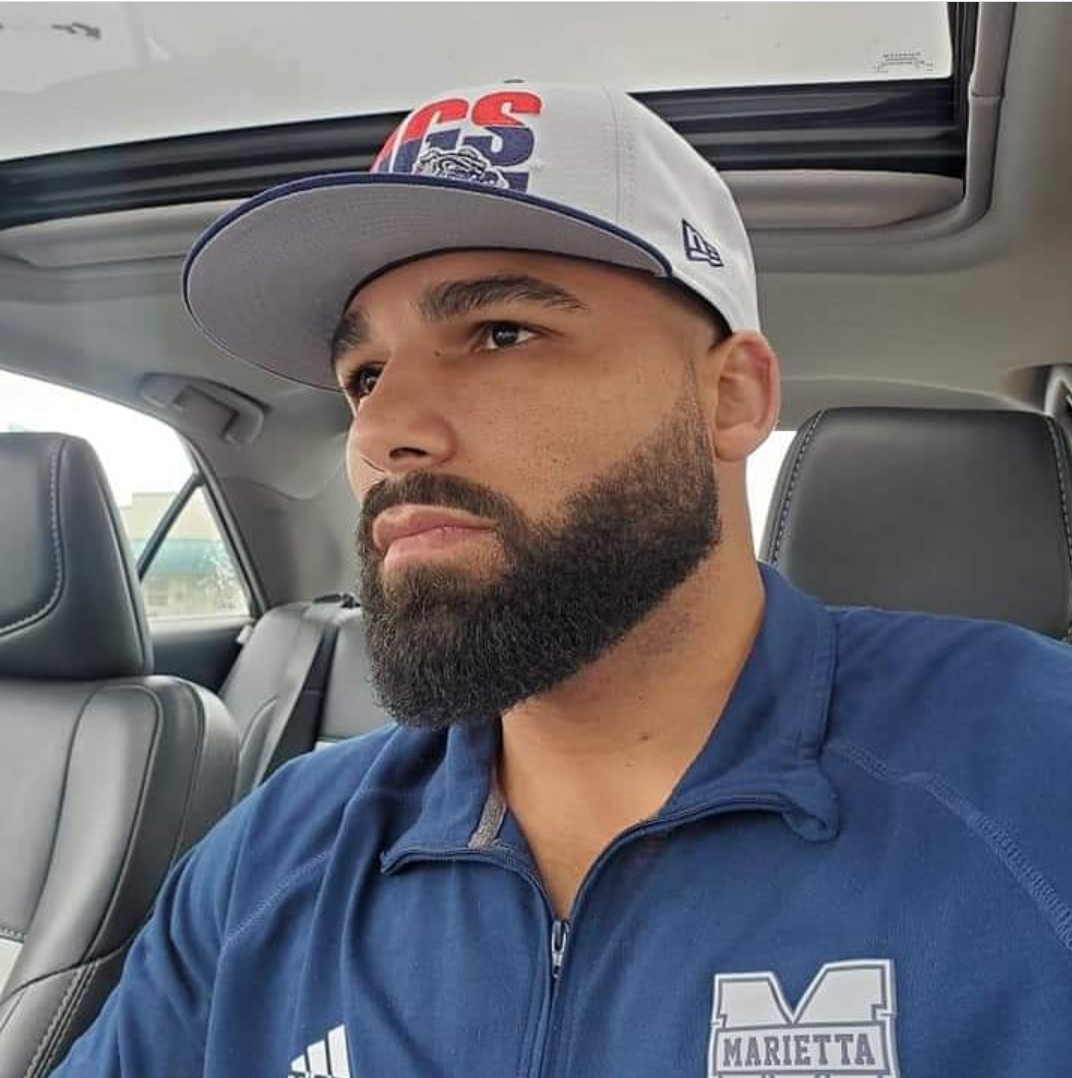
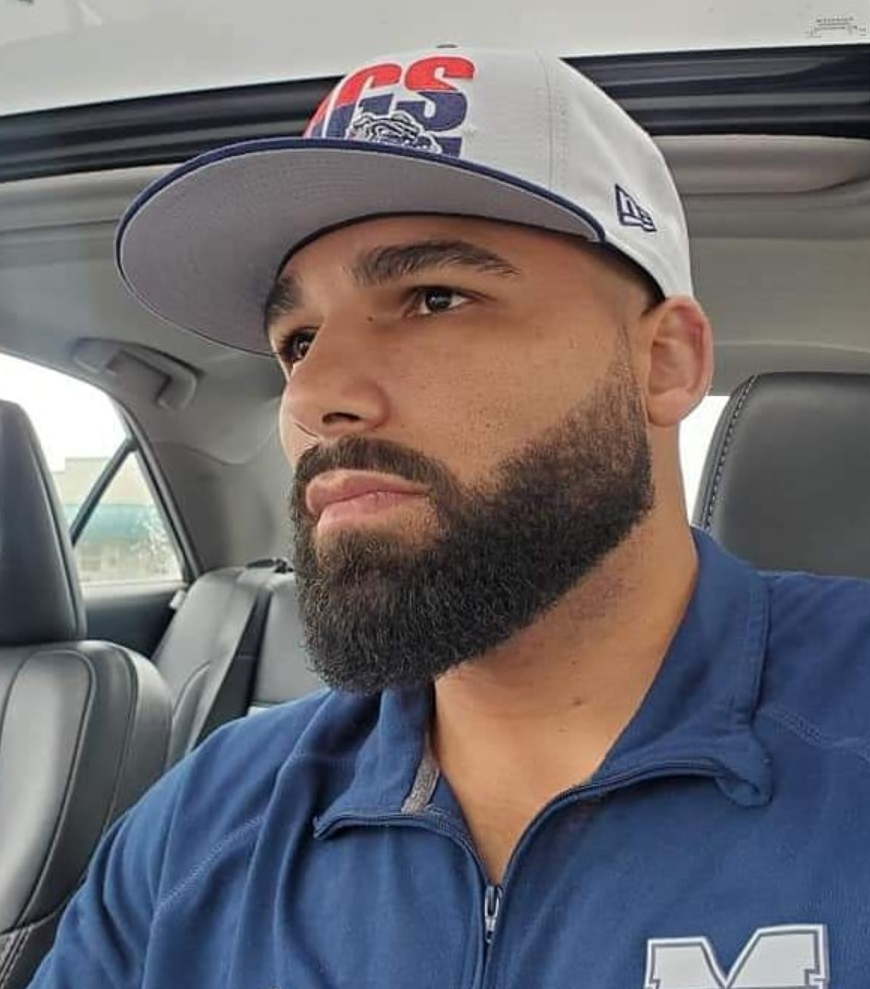
changes to pictures and sizing. copy and text

diff --git a/src/components/Barbers.jsx b/src/components/Barbers.jsx
@@ -1,32 +1,31 @@
-import cliff_profile from "../images/cliff_profile.png";
-import nate_profile from "../images/nate_profile.jpeg";
-import louie_profile from "../images/louie_profile.png";
-import nicks_profile from "../images/nicks_profile.png";
+import cliff_profile from "../images/cliff_profile_three.png";
+import nate_profile from "../images/nate_profile_two.png";
+import louie_profile from "../images/louie_profile_two.png";
+import nicks_profile from "../images/nicks_profile_two.png";
 import insta from "../images/insta.png";
 const Barbers = () => {
   return (
-    <section className="text-white bg-black body-font">
+    <section className="text-white bg-black body-font ">
       <div className="container px-5 py-24 mx-auto">
-        <div className="flex flex-col text-center w-full mb-20">
+        <div className="flex flex-col text-center w-full mb-20 text-base">
           <h1
             id="pricing"
             className="text-4xl font-medium title-font mb-4 text-white"
           >
-            OUR TEAM
+            MEET THE TEAM
           </h1>
-          <p className="lg:w-2/3 mx-auto leading-relaxed text-xl">
-            Our team is strong. We offer all the popular cuts you could want.
-            And we guarantee your happiness. You will 100% leave here looking
-            fresh no matter the barber you choose. Check out our line up.
+          <p className="lg:w-2/3 mx-auto leading-relaxed text-2xl">
+            At The Yard Barber's our team offer a full range of classic and
+            modern mens haircuts for all hair types.
           </p>
         </div>
         <div className="flex flex-wrap -m-4">
           {/* start barber 1 pricing */}
           <div className="p-4 lg:w-1/4 md:w-1/2">
-            <div className="h-full flex flex-col items-center text-center">
+            <div className="h-full flex flex-col items-center text-center ">
               <img
                 alt="team"
-                className="flex-shrink-0 rounded-lg w-full h-56 object-cover object-center mb-4"
+                className="flex-shrink-0 rounded-lg w-full h-56 object-cover object-center mb-4 border-2 border-red-600 "
                 src={cliff_profile}
               />
               <div className="w-full">
@@ -137,6 +136,7 @@ const Barbers = () => {
                   </p>
                   <p className="text-xs text-white mt-3">
                     **Full Service includes fade, beard and eyebrows.
+                    <br />
                   </p>
                   <p className="text-xs text-white mt-3">
                     **VIP includes fade, line-up, beard, lavender hot towel,
@@ -357,6 +357,20 @@ const Barbers = () => {
                     **Really great with kids.**
                   </p>
                   <p className="text-xs text-white mt-3">**Great cuts.**</p>
+
+                  {/* start of filler */}
+                  <p className="text-xs text-black mt-3">
+                    **Basic cut includes buzz cut, head shave, senior citizen,
+                    line-up w/beard.
+                  </p>
+                  <p className="text-xs text-black mt-3">
+                    **Full Service includes fade, beard and eyebrows.
+                    <br />
+                  </p>
+                  <p className="text-xs text-black mt-3">
+                    **VIP includes fade, line-up, beard,
+                  </p>
+                  {/* end of filler */}
                 </div>
               </div>
             </div>
@@ -477,6 +491,13 @@ const Barbers = () => {
                   <p className="text-xs text-white mt-3">
                     ** Beards additional $5
                   </p>
+                  {/* start of filler */}
+                  <p className="text-xs text-black mt-3">
+                    **Basic cut includes buzz cut, head shave, senior citizen,
+                    line-up w/beard.
+                  </p>
+
+                  {/* end of filler */}
                 </div>
               </div>
             </div>

diff --git a/src/components/Gallery.jsx b/src/components/Gallery.jsx
@@ -1,7 +1,9 @@
-import cliff_profile from "../images/cliff_profile.jpeg";
+import cliff_profile from "../images/cliff_profile_two.png";
 import cliff_1 from "../images/cliff_1.jpg";
+
 import cliff_2 from "../images/cliff_2.jpg";
 import cliff_3 from "../images/cliff_3.png";
+
 import cliff_4 from "../images/cliff_4.jpg";
 import cliff_6 from "../images/cliff_6.jpg";
 import cliff_7 from "../images/cliff_7.jpeg";
@@ -14,6 +16,7 @@ import nate_4 from "../images/nate_4.jpeg";
 import nate_5 from "../images/nate_5.jpeg";
 import nate_6 from "../images/nate_6.jpeg";
 import nate_7 from "../images/nate_7.jpeg";
+import nate_8 from "../images/nate_6.png";
 
 const Gallery = () => {
   return (
@@ -28,7 +31,7 @@ const Gallery = () => {
           </div>
           <div className="flex flex-wrap -m-4">
             <div className="lg:w-1/3 sm:w-1/2 p-4">
-              <div className="flex relative">
+              <div id="image_cliff_1" className="flex relative">
                 <img
                   alt="Gallery"
                   className="absolute inset-0 w-full h-full object-cover object-center"
@@ -273,7 +276,7 @@ const Gallery = () => {
                   <h1 className="title-font text-lg font-medium text-black mb-3">
                     Fade
                   </h1>
-                  <p className="leading-relaxed text-black">
+                  <p className="leading-relaxed text-black ">
                     Description of the Haircut. An idea of what the style
                     entails and what style it matches up to
                   </p>
@@ -290,15 +293,15 @@ const Gallery = () => {
             <h1 className="sm:text-3xl text-2xl font-medium title-font text-white lg:w-1/3 lg:mb-0 mb-4 mx-auto">
               Custom Styles
             </h1>
-            <p className="lg:pl-6 lg:w-2/3 mx-auto leading-relaxed text-base text-white">
-              We can cut just about any style. Most are already covered in our
-              pricing, but if you need something truely custom don't be afraid
-              to ask. We got you!
+            <p className="lg:pl-6 lg:w-2/3 mx-auto leading-relaxed text-left text-base text-white text-2xl">
+              If you have a look in mind that you can't see in our pricing, just
+              ask. If you need something truely custom
+              <span className="text-3xl text-white"> We Got You!</span>
             </p>
           </div>
-          <div className="flex flex-wrap md:-m-2 -m-1">
-            <div className="flex flex-wrap w-1/2">
-              <div className="md:p-2 p-1 w-1/2">
+          <div className="container flex flex-wrap md:-m-2 -m-1">
+            <div className=" flex flex-wrap w-1/2">
+              <div id="image_nate_5" className="md:p-2 p-1 w-1/2">
                 <img
                   alt="Gallery"
                   className="w-full object-cover h-full object-center block"
@@ -312,15 +315,15 @@ const Gallery = () => {
                   src={nate_6}
                 />
               </div>
-              <div className="md:p-2 p-1 w-full">
+              <div className="md:p-2 mt-1 p-1 w-full ">
                 <img
                   alt="Gallery"
-                  className="w-full h-full object-cover object-center block"
+                  className="w-full h-5/6  object-cover object-center block"
                   src={cliff_profile}
                 />
               </div>
             </div>
-            <div className="flex flex-wrap w-1/2">
+            <div className="flex flex-wrap w-1/2 h-5/6">
               <div className="md:p-2 p-1 w-full">
                 <img
                   alt="Gallery"
@@ -338,7 +341,7 @@ const Gallery = () => {
               <div className="md:p-2 p-1 w-1/2">
                 <img
                   alt="Gallery"
-                  className="w-full object-cover h-full object-center block"
+                  className="w-full object-cover  object-center block"
                   src={cliff_1}
                 />
               </div>

diff --git a/src/components/Navbar.jsx b/src/components/Navbar.jsx
@@ -2,9 +2,9 @@ import yardLogo from "../images/yard_logo_cliff.png";
 const Navbar = () => {
   return (
     <nav className="text-gray-200 body-font bg-black sticky top-0 z-50">
-      <div className="container mx-auto flex flex-wrap p-5 flex-col md:flex-row items-center">
+      <div className="container mx-auto flex flex-wrap p-5 flex-col md:flex-row items-center ">
         <a href="/">
-          <img src={yardLogo} className="h-24 w-24  " alt="" />
+          <img src={yardLogo} className="h-24 w-24" alt="" />
         </a>
 
         <nav className="md:ml-auto flex flex-wrap items-center text-base justify-center">
@@ -22,7 +22,7 @@ const Navbar = () => {
           </a>
           <a
             href="#pricing"
-            className="mr-5 lg:mr-10 hover:text-red-600 text-xl lg:text-2xl"
+            className="mr-5 lg:mr-10 text-white hover:text-red-600 text-xl lg:text-2xl"
           >
             Pricing
           </a>

diff --git a/src/components/Pricing.jsx b/src/components/Pricing.jsx
@@ -66,6 +66,7 @@ const Pricing = () => {
               <p className="text-xs text-white mt-3">
                 Basic cut includes buzz cut, head shave, senior citizen, line-up
                 w/beard.
+                <br />
               </p>
             </div>
           </div>
@@ -232,6 +233,8 @@ const Pricing = () => {
               <p className="text-xs text-white mt-3">
                 Basic cut includes buzz cut, head shave, senior citizen, line-up
                 w/beard.
+                <br />
+                <br />
               </p>
             </div>
           </div>

diff --git a/src/index.css b/src/index.css
@@ -17,3 +17,11 @@ body {
 .logo-font {
   font-family: "Orbitron", sans-serif;
 }
+
+#image_nate_5 {
+  transform: rotateY(180deg);
+}
+
+#image_cliff_1 {
+  transform: rotateY(180deg);
+}
